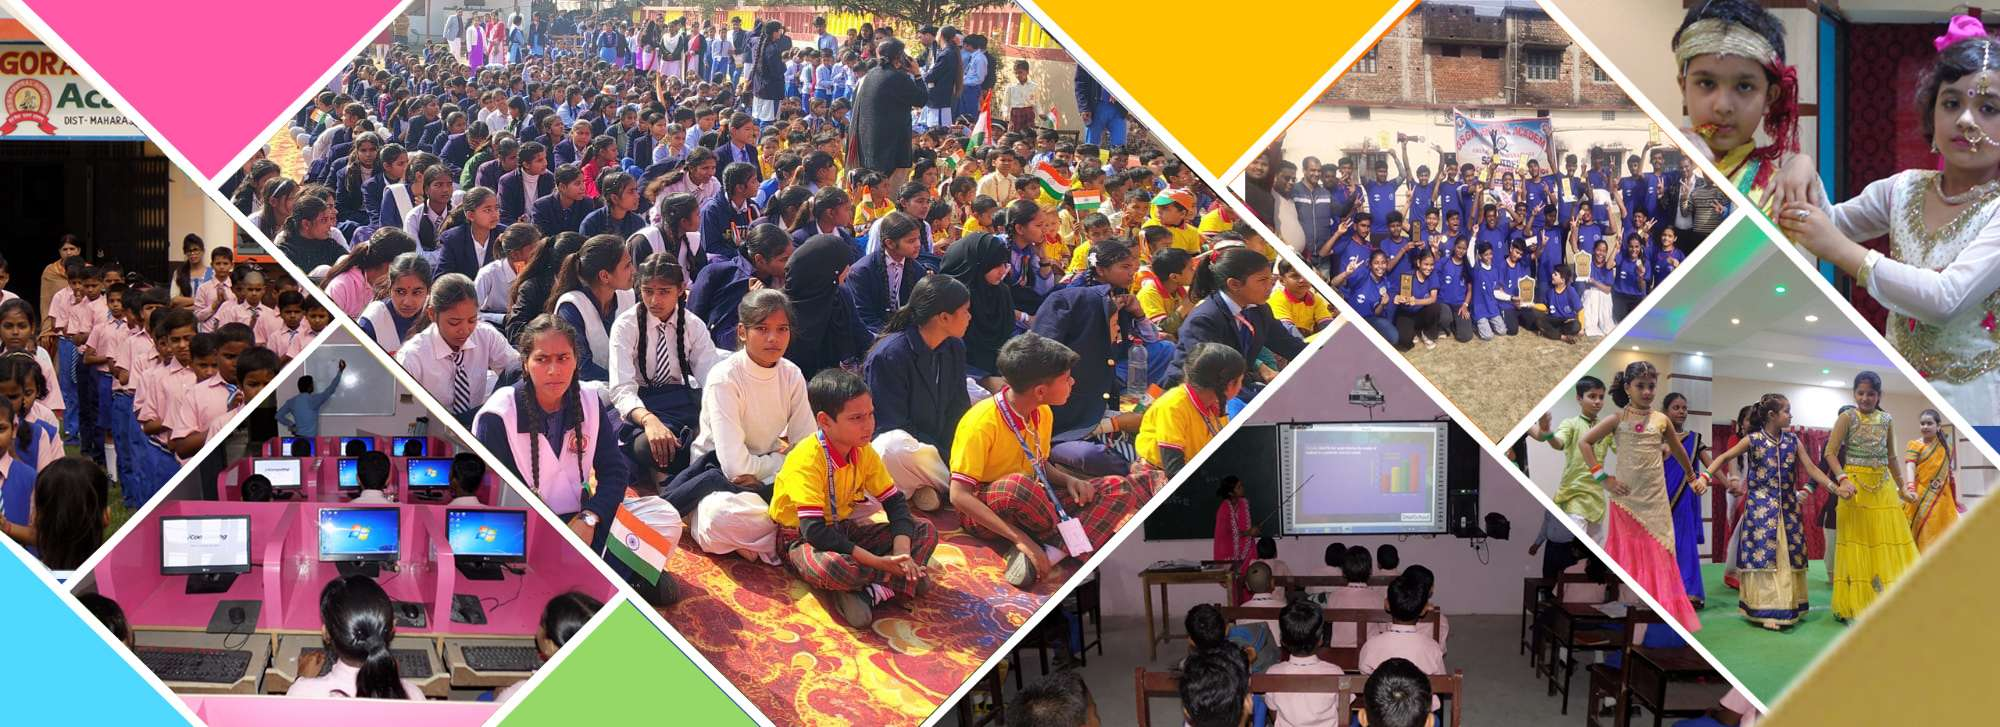
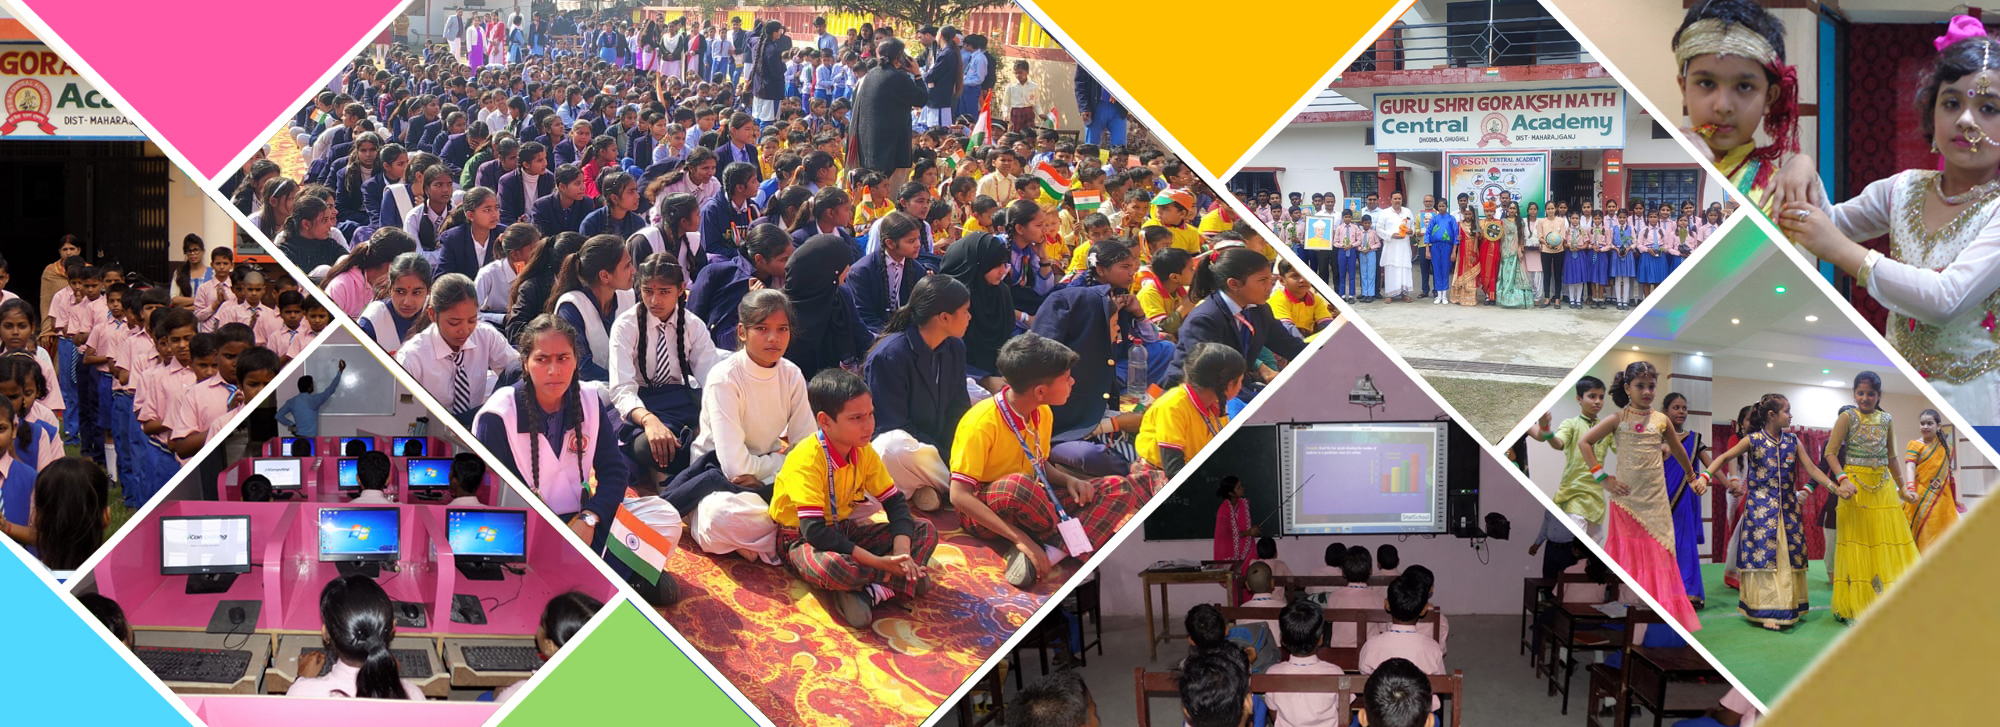
add image

diff --git a/sbsc.html b/sbsc.html
@@ -154,7 +154,7 @@
 					 
 					 <li>  <a href="https://drive.google.com/file/d/1ajSVbaB58m4AStnDiLBVpDH4X4d1gG8f/view?pli=1" target="_blank"> ANNUAL ACADEMIC CALENDAR 2026-27 </a> </li>
 					 
-					  <li>   <a href="images/BSA.pdf" target="_blank"> RECOGNITION CERTIFICATE (BSA) </a> </li>
+					  <li>   <a href="https://drive.google.com/file/d/1HnxPoiY22rh3F7qOXwcggQeOKXVQSAMX/view?usp=drive_link" target="_blank"> RECOGNITION CERTIFICATE (BSA) </a> </li>
 					  
 					  <li>  <a href="#" target="_blank">  BUILDING SAFETY CERTIFICATE AS PER THE NATIONAL BUILDING CODE </a></li>
 					   <li>  <a href="#" target="_blank"> LIST OF PARENTS TEACHERS ASSOCIATION (PTA) MEMBERS </a></li>
@@ -173,15 +173,15 @@
 					 
 					  <ul style="list-style-type:disc; line-height:40px;font-size:16px"> 
 					 
-					  <li>  <a href="images/board.pdf" target="_blank" > BOARD RESULT </a></li>
+					  <li>  <a href="https://drive.google.com/file/d/1YDnLhUG6kth0NbscXeD7WGtSvAHwLF_X/view?usp=drive_link" target="_blank" > BOARD RESULT </a></li>
 					  
-					   <li>  <a href="images/gsgn fire ghughli.pdf" target="_blank"> FIRE SAFETY CERTIFICATE ISSUED BY THE COMPETENT AUTHORITY </a> </li>
+					   <li>  <a href="https://drive.google.com/file/d/1qs0_QAsPJzFeZD-1ZobJQXwmfklDflRa/view?usp=drive_link" target="_blank"> FIRE SAFETY CERTIFICATE ISSUED BY THE COMPETENT AUTHORITY </a> </li>
 					   <li> <a href="#" target="_blank"> SELF CERTIFICATION </a> </li>
 					    <li>  <a href="#" target="_blank"> LIST OF SCHOOL MANAGEMENT COMMITTEE (SMC) </a> </li>
 						 <li> <a href="#" target="_blank"> WATER TEST REPORT </a></li>
 						  <li>  <a href="#" target="_blank">  MANDATORY PUBLIC DISCLOSURE </a></li>
-						   <li>  <a href="images/FEE.pdf" target="_blank"> FEE STRUCTURE </a></li> 
-						   <li>  <a href="images/certificate of land.pdf" target="_blank">  Certificate of Land </a></li> 
+						   <li>  <a href="https://drive.google.com/file/d/1crTXz2O8uHz4GcWVPpZOKquFpmkKYmn-/view?usp=drive_link" target="_blank"> FEE STRUCTURE </a></li> 
+						   <li>  <a href="https://drive.google.com/file/d/1qO8x-24cqDcvpkWhLnKnoLxHeZJR19QT/view?usp=drive_link" target="_blank">  Certificate of Land </a></li> 
 					  </ul> 
 					
 					 
